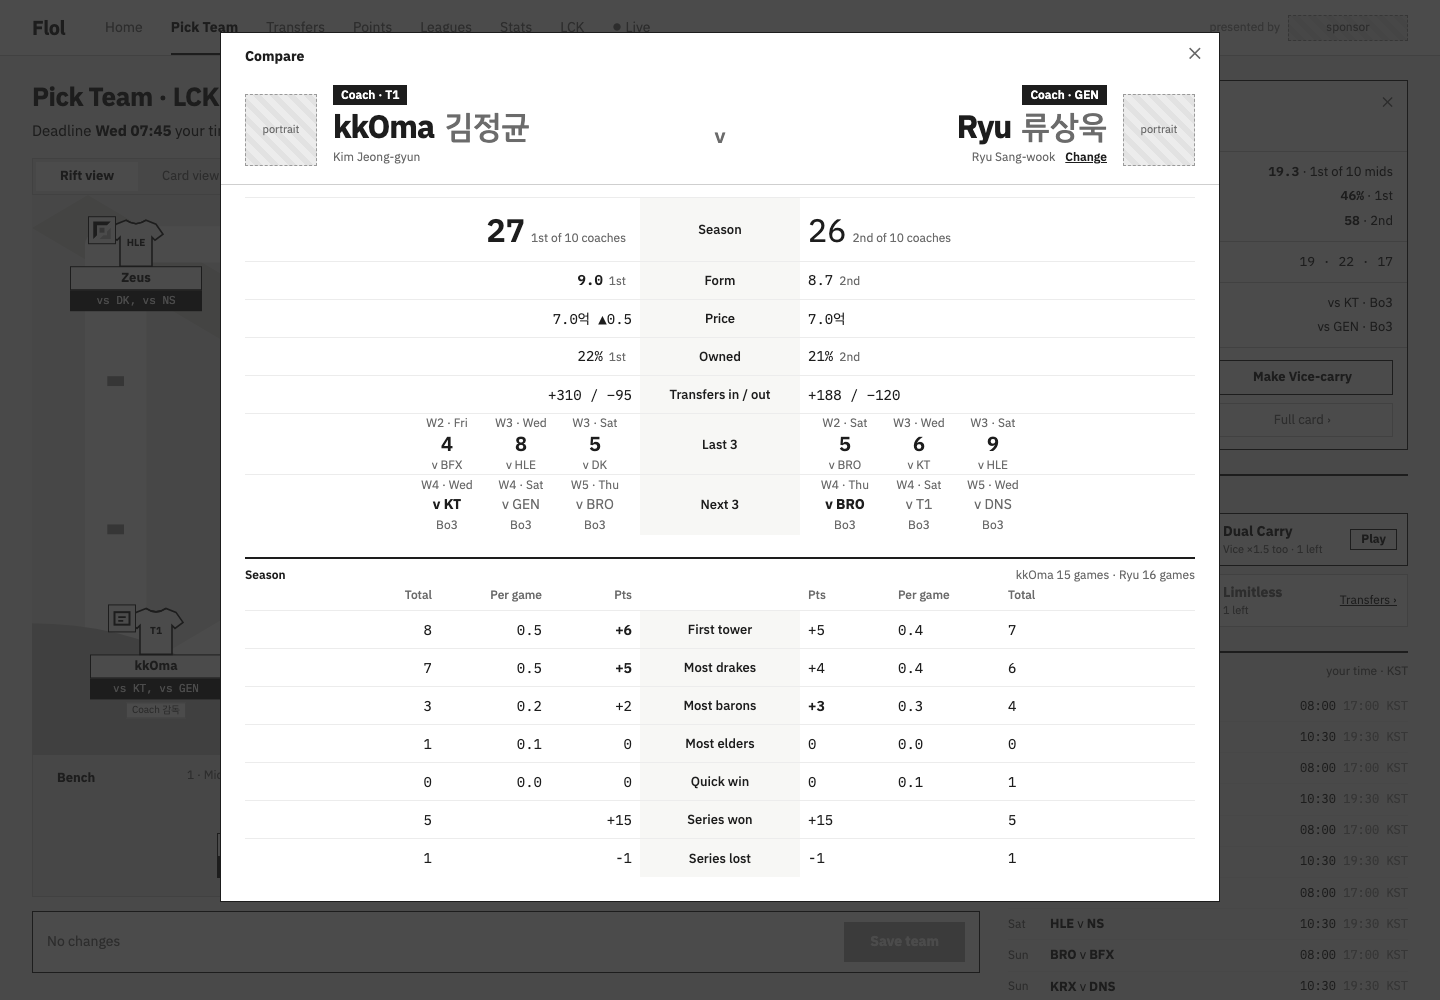
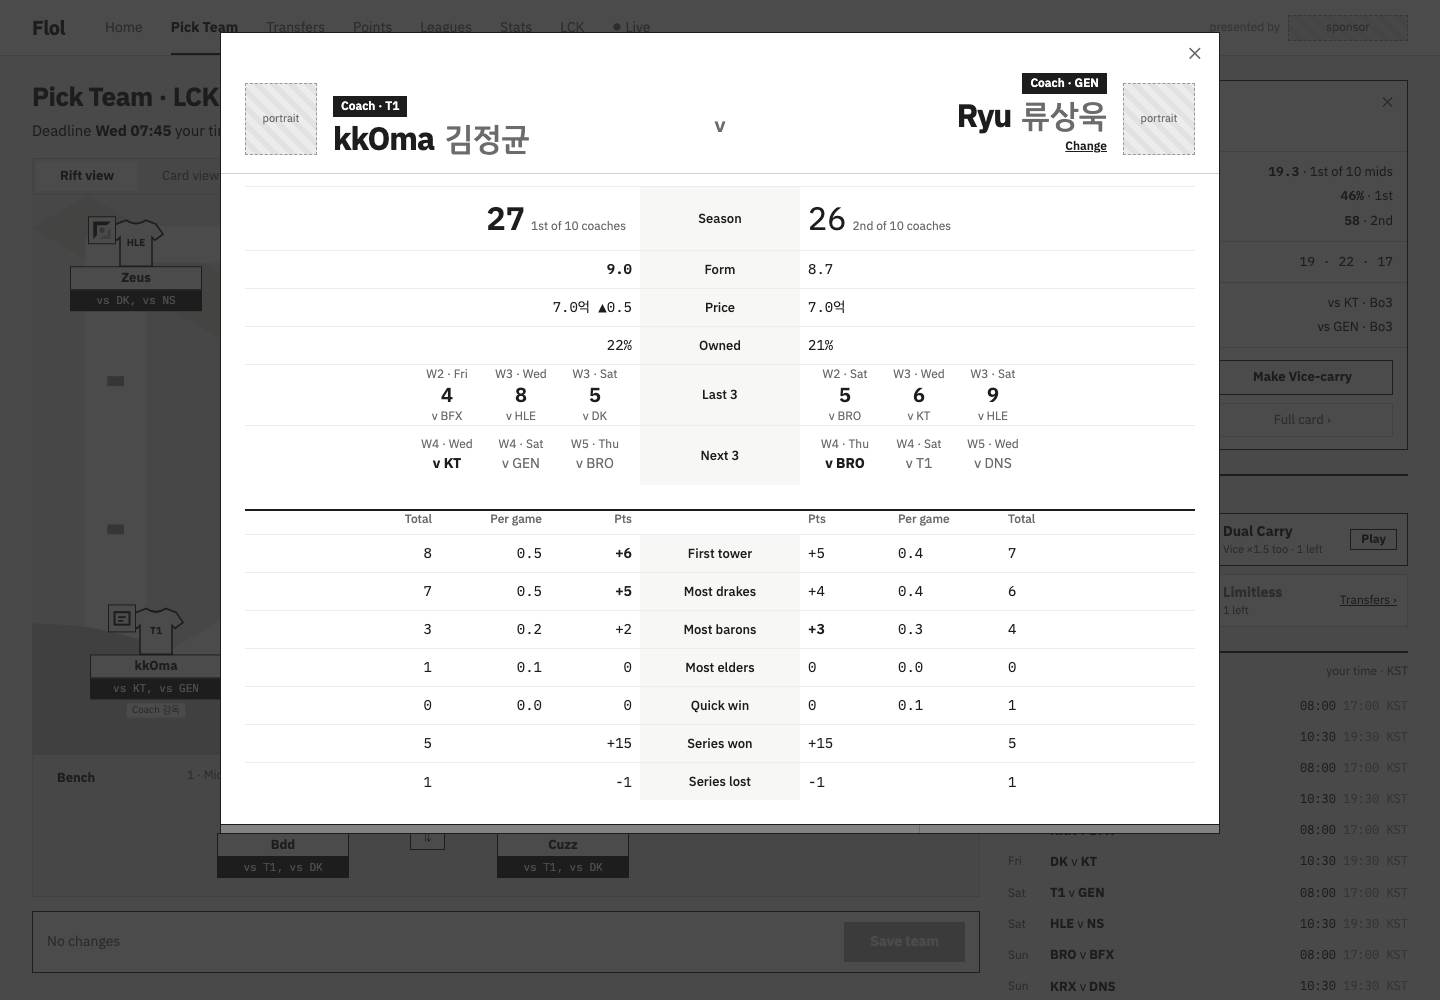
wip: Compare fluff cut, UX round 2

diff --git a/docs/design/proposals/2026-11-16-compare/compare.html b/docs/design/proposals/2026-11-16-compare/compare.html
@@ -15,7 +15,7 @@ iframe.under { position: absolute; inset: 0; width: 1440px; height: 1000px; bord
 .bar { display: flex; align-items: baseline; gap: 12px; padding: 14px 24px 0; } .bar b { font-size: 14px; } .bar span { font-size: 12px; color: var(--mid); }
 
 /* the two lower-thirds, facing each other as the broadcast's head-to-head */
-.vs { display: grid; grid-template-columns: 1fr 72px 1fr; align-items: end; padding: 18px 24px 18px; border-bottom: 1px solid var(--line); }
+.vs { display: grid; grid-template-columns: 1fr 72px 1fr; align-items: end; padding: 40px 24px 18px; border-bottom: 1px solid var(--line); }
 .lt { display: flex; gap: 16px; align-items: flex-end; } .lt.r { flex-direction: row-reverse; text-align: right; }
 .por { width: 72px; height: 72px; flex: none; }
 .chip { display: inline-block; background: var(--ink); color: #fff; font-size: 12px; font-weight: 600; padding: 2px 8px; margin-bottom: 6px; }
@@ -52,7 +52,7 @@ tr.str td { height: 60px; }
 <iframe class="under" id="under"></iframe><div class="dim"></div>
 <div class="sheet">
   <span class="x">✕</span>
-  <div class="bar"><b>Compare</b></div>
+  
   <div class="vs" id="vs"></div>
   <div class="wrap" id="wrap"></div>
 </div>
@@ -86,37 +86,36 @@ const [A, B] = V === "coaches" ? ["kkOma", "Ryu"] : ["Faker", "Chovy"];
 $("under").src = V === "coaches" ? "../../approved/coach-card/coach.html" : "../../approved/player-card/card.html";
 const a = P[A], b = V === "pick" ? null : P[B];
 
-const lt = (n, p, right) => `<div class="lt ${right ? "r" : ""}"><div class="por ph">portrait</div><div><span class="chip">${p.chip}</span><h1>${n}<i>${p.hangul}</i></h1><div class="legal">${p.legal}${right ? "<a>Change</a>" : ""}</div></div></div>`;
+const lt = (n, p, right) => `<div class="lt ${right ? "r" : ""}"><div class="por ph">portrait</div><div><span class="chip">${p.chip}</span><h1>${n}<i>${p.hangul}</i></h1>${right ? '<div class="legal"><a>Change</a></div>' : ""}</div></div>`;
 $("vs").innerHTML = lt(A, a) + `<div class="v">v</div>` + (b ? lt(B, b, true) : `<div></div>`);
 
 // Higher is better for season, form and every line's points; price, owned and transfers are not marked.
 const better = (x, y) => (x === y ? "" : x > y ? "L" : "R");
 const cell = (v, r) => `${v}<small>${r}</small>`;
 const row = (lab, f, c, mark, cls = "") => `<tr class="${cls}"><td class="L ${mark === "L" ? "b" : ""}">${f}</td><td class="lab">${lab}</td><td class="R ${mark === "R" ? "b" : ""}">${c}</td></tr>`;
-const strip = (xs, past) => `<div class="strip">${xs.map(([w, o, p], i) => `<span class="${!past && i === 0 ? "first" : ""}">${w}${past ? `<b>${p}</b>v ${o}` : `<em>v ${o}</em>Bo3`}</span>`).join("")}</div>`;
+const strip = (xs, past) => `<div class="strip">${xs.map(([w, o, p], i) => `<span class="${!past && i === 0 ? "first" : ""}">${w}${past ? `<b>${p}</b>v ${o}` : `<em>v ${o}</em>`}</span>`).join("")}</div>`;
 const col3 = `<colgroup><col><col style="width:160px"><col></colgroup>`;
 const pg = (t, g) => (t / g).toFixed(1), sgn = (p) => (p > 0 ? "+" + p : p);
 
 if (!b) {
   // The second player not picked yet: a search, his role listed first (spec/12 Compare). Mids from the Stats picture.
   const MIDS = [["Chovy", "GEN", "17.5억", 61], ["Zeka", "HLE", "15.0억", 41], ["BuLLDoG", "DNS", "11.0억", 36], ["ShowMaker", "DK", "13.0억", 33]];
-  $("wrap").innerHTML = `<div style="display:grid;grid-template-columns:1fr 1fr;gap:48px;margin-top:20px">
-    <table style="align-self:start">${col3.replace("160", "120")}${row("Season", cell(a.season[0], a.season[1] + " of 10 " + a.of), "", "", "big")}${row("Form", cell(a.form[0], a.form[1]), "", "")}${row("Price", a.price, "", "")}</table>
+  $("wrap").innerHTML = `<div style="margin-top:20px">
     <div class="pick"><div class="find">Find a player</div><div class="hd">Mids</div><table><colgroup><col><col style="width:70px"><col style="width:80px"><col style="width:60px"></colgroup>
       ${MIDS.map(([n, t, pr, pt]) => `<tr><td class="nm">${n}</td><td class="tm">${t}</td><td class="R">${pr}</td><td class="R" style="text-align:right;font-weight:600">${pt}</td></tr>`).join("")}</table>
       <a class="more">All mids · Other roles ›</a></div></div>`;
 } else {
   const head = `<table style="margin-top:12px">${col3}
     ${row("Season", cell(a.season[0], a.season[1] + " of 10 " + a.of), cell(b.season[0], b.season[1] + " of 10 " + b.of), better(a.season[0], b.season[0]), "big")}
-    ${row("Form", cell(a.form[0], a.form[1]), cell(b.form[0], b.form[1]), better(+a.form[0], +b.form[0]))}
-    ${row("Price", a.price, b.price, "")}${row("Owned", cell(...a.owned), cell(...b.owned), "")}${row("Transfers in / out", a.tx, b.tx, "")}
+    ${row("Form", a.form[0], b.form[0], better(+a.form[0], +b.form[0]))}
+    ${row("Price", a.price, b.price, "")}${row("Owned", a.owned[0], b.owned[0], "")}
     <tr class="str"><td class="L">${strip(a.last, true)}</td><td class="lab">Last 3</td><td class="R">${strip(b.last, true)}</td></tr>
     <tr class="str"><td class="L">${strip(a.next)}</td><td class="lab">Next 3</td><td class="R">${strip(b.next)}</td></tr></table>`;
   // Each side: total, per game, points, mirrored so the points sit next to the line. The better points are bold.
   const lr = (i) => { const [l, ft, fp] = a.lines[i], [, ct, cp] = b.lines[i], m = better(fp, cp), ser = l.startsWith("Series");
     return `<tr><td class="L">${ft}</td><td class="L">${ser ? "" : pg(ft, a.games)}</td><td class="L pts ${m === "L" ? "b" : ""}">${sgn(fp)}</td><td class="lab">${l}</td>
       <td class="R pts ${m === "R" ? "b" : ""}">${sgn(cp)}</td><td class="R">${ser ? "" : pg(ct, b.games)}</td><td class="R">${ct}</td></tr>`; };
-  const lines = `<h4>Season <span>${A} ${a.games} games · ${B} ${b.games} games</span></h4><table>
+  const lines = `<table style="margin-top:24px;border-top:2px solid var(--ink)">
     <colgroup><col><col style="width:110px"><col style="width:90px"><col style="width:160px"><col style="width:90px"><col style="width:110px"><col></colgroup>
     <tr><th class="L">Total</th><th class="L">Per game</th><th class="L">Pts</th><th></th><th class="R">Pts</th><th class="R">Per game</th><th class="R">Total</th></tr>
     ${a.lines.map((_, i) => lr(i)).join("")}</table>`;

diff --git a/docs/design/proposals/2026-11-16-compare/panel.md b/docs/design/proposals/2026-11-16-compare/panel.md
@@ -28,3 +28,10 @@ These are the findings of the FPL player, LCK fan, UX and PM reviewers on the fi
 ## Craig, 16 Nov 2026
 
 The 4 calls: "As recommended". Last 3 stays, the Change link stays, there are no buttons, and the series where they meet is not marked. The picture already shows all four. Next: Craig's "save".
+
+## Round 2 (16 Nov 2026)
+
+- Craig: "get rid of the fluff lines and get a ux guy in to review".
+- Cut: Transfers in / out, the legal names, the games caption, the ranks on Form and Owned (Season keeps its rank), "Bo3" on Next 3, the second Season heading and the Compare title.
+- The pick view is the search only, full width.
+- Not taken: folding Owned into Price, and dropping small per-game figures.
